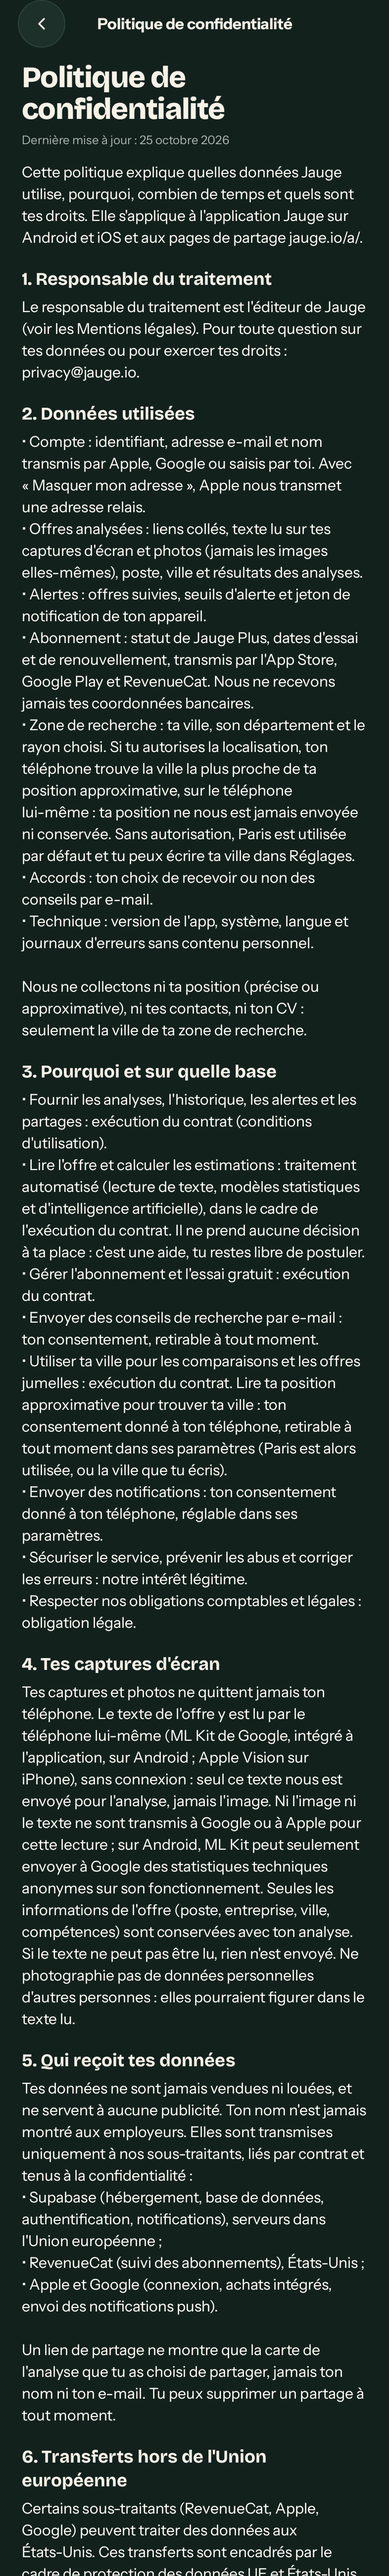
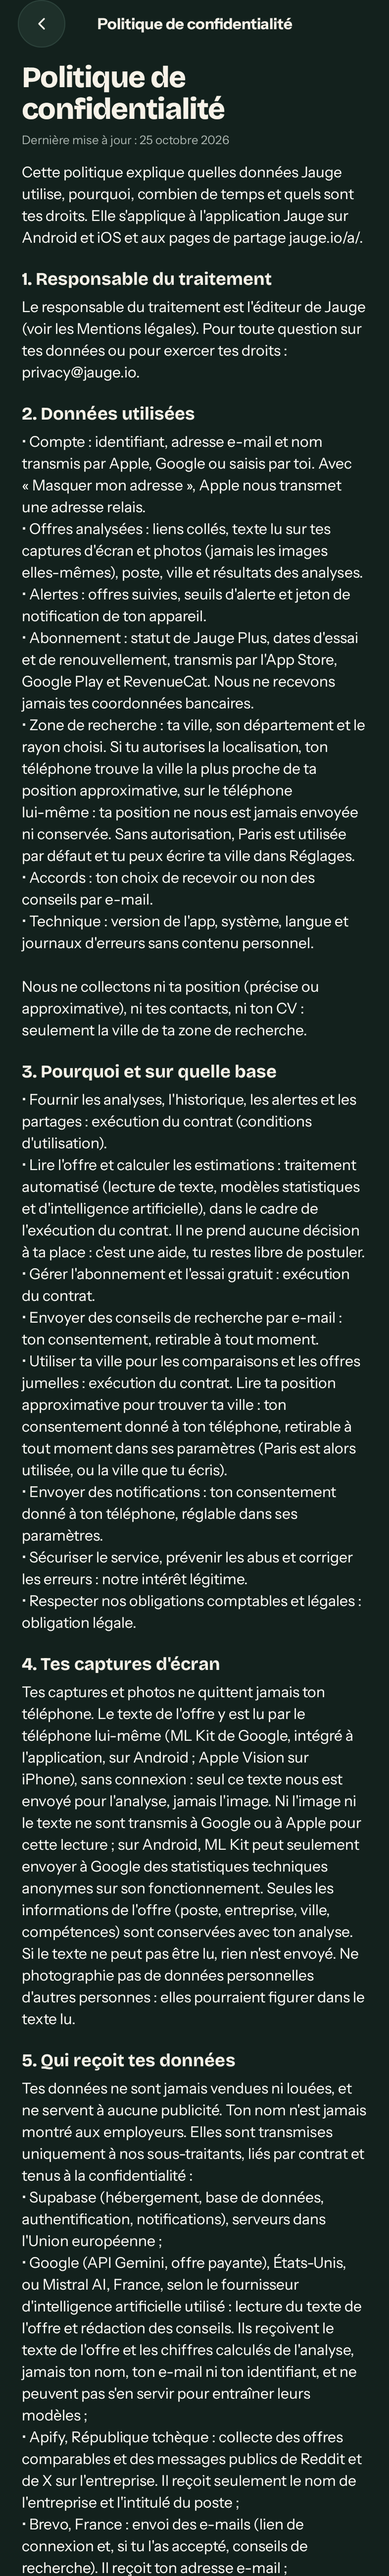
docs: name the backend processors in the privacy policy
Google Gemini or Mistral AI, Apify and Brevo are listed with their role and
the data they receive, with the public Reddit and X posts read only to refine
the advice. App texts (fr, en) and jauge.io pages regenerated.

Changed region(s): [[0.0611, 0.8723, 0.916, 1.0]]

diff --git a/docs/web/confidentialite/index.html b/docs/web/confidentialite/index.html
@@ -36,12 +36,13 @@ footer { margin-top: 48px; border-top: 1px solid var(--line); padding-top: 16px;
 <h2>4. Tes captures d&#x27;écran</h2>
 <p>Tes captures et photos ne quittent jamais ton téléphone. Le texte de l&#x27;offre y est lu par le téléphone lui-même (ML Kit de Google, intégré à l&#x27;application, sur Android ; Apple Vision sur iPhone), sans connexion : seul ce texte nous est envoyé pour l&#x27;analyse, jamais l&#x27;image. Ni l&#x27;image ni le texte ne sont transmis à Google ou à Apple pour cette lecture ; sur Android, ML Kit peut seulement envoyer à Google des statistiques techniques anonymes sur son fonctionnement. Seules les informations de l&#x27;offre (poste, entreprise, ville, compétences) sont conservées avec ton analyse. Si le texte ne peut pas être lu, rien n&#x27;est envoyé. Ne photographie pas de données personnelles d&#x27;autres personnes : elles pourraient figurer dans le texte lu.</p>
 <h2>5. Qui reçoit tes données</h2>
-<p>Tes données ne sont jamais vendues ni louées, et ne servent à aucune publicité. Ton nom n&#x27;est jamais montré aux employeurs. Elles sont transmises uniquement à nos sous-traitants, liés par contrat et tenus à la confidentialité :</p><p>• Supabase (hébergement, base de données, authentification, notifications), serveurs dans l&#x27;Union européenne ;</p><p>• RevenueCat (suivi des abonnements), États-Unis ;</p><p>• Apple et Google (connexion, achats intégrés, envoi des notifications push).</p>
+<p>Tes données ne sont jamais vendues ni louées, et ne servent à aucune publicité. Ton nom n&#x27;est jamais montré aux employeurs. Elles sont transmises uniquement à nos sous-traitants, liés par contrat et tenus à la confidentialité :</p><p>• Supabase (hébergement, base de données, authentification, notifications), serveurs dans l&#x27;Union européenne ;</p><p>• Google (API Gemini, offre payante), États-Unis, ou Mistral AI, France, selon le fournisseur d&#x27;intelligence artificielle utilisé : lecture du texte de l&#x27;offre et rédaction des conseils. Ils reçoivent le texte de l&#x27;offre et les chiffres calculés de l&#x27;analyse, jamais ton nom, ton e-mail ni ton identifiant, et ne peuvent pas s&#x27;en servir pour entraîner leurs modèles ;</p><p>• Apify, République tchèque : collecte des offres comparables et des messages publics de Reddit et de X sur l&#x27;entreprise. Il reçoit seulement le nom de l&#x27;entreprise et l&#x27;intitulé du poste ;</p><p>• Brevo, France : envoi des e-mails (lien de connexion et, si tu l&#x27;as accepté, conseils de recherche). Il reçoit ton adresse e-mail ;</p><p>• RevenueCat (suivi des abonnements), États-Unis ;</p><p>• Apple et Google (connexion, achats intégrés, envoi des notifications push).</p>
+<p>Pour affiner ses conseils, Jauge lit des messages publics de Reddit et de X qui parlent de l&#x27;entreprise. Ils ne sont pas affichés dans l&#x27;application, leurs auteurs ne sont jamais nommés, les messages ne sont pas conservés : seul un résumé de deux phrases est gardé 30 jours. Reddit et X ne reçoivent aucune donnée sur toi.</p>
 <p>Un lien de partage ne montre que la carte de l&#x27;analyse que tu as choisi de partager, jamais ton nom ni ton e-mail. Tu peux supprimer un partage à tout moment.</p>
 <h2>6. Transferts hors de l&#x27;Union européenne</h2>
-<p>Certains sous-traitants (RevenueCat, Apple, Google) peuvent traiter des données aux États-Unis. Ces transferts sont encadrés par le cadre de protection des données UE et États-Unis (Data Privacy Framework) lorsque le prestataire y adhère, ou à défaut par les clauses contractuelles types de la Commission européenne.</p>
+<p>Certains sous-traitants (Google pour l&#x27;API Gemini, RevenueCat, Apple, Google) peuvent traiter des données aux États-Unis, et Apify peut utiliser des serveurs hors de l&#x27;Union européenne. Ces transferts sont encadrés par le cadre de protection des données UE et États-Unis (Data Privacy Framework) lorsque le prestataire y adhère, ou à défaut par les clauses contractuelles types de la Commission européenne.</p>
 <h2>7. Durées de conservation</h2>
-<ul><li>Captures et photos : jamais envoyées, elles restent sur ton téléphone. Le texte lu est conservé avec ton analyse.</li><li>Compte, analyses, alertes et partages : tant que ton compte existe. Après 3 ans sans aucune connexion, ton compte et ses données sont supprimés après un e-mail de prévenance.</li><li>Sans compte : les analyses liées à ton appareil sont supprimées après 12 mois d&#x27;inactivité.</li><li>Après suppression du compte : effacement immédiat dans l&#x27;app et complet sous 30 jours, sauvegardes comprises.</li><li>Données de facturation tenues par les stores et RevenueCat : selon leurs obligations légales, jusqu&#x27;à 10 ans.</li><li>Zone de recherche : tant que ton compte existe, modifiable à tout moment dans Réglages. Ta position n&#x27;est jamais conservée.</li><li>Journaux techniques : 12 mois au plus.</li></ul>
+<ul><li>Captures et photos : jamais envoyées, elles restent sur ton téléphone. Le texte lu est conservé avec ton analyse.</li><li>Compte, analyses, alertes et partages : tant que ton compte existe. Après 3 ans sans aucune connexion, ton compte et ses données sont supprimés après un e-mail de prévenance.</li><li>Sans compte : les analyses liées à ton appareil sont supprimées après 12 mois d&#x27;inactivité.</li><li>Après suppression du compte : effacement immédiat dans l&#x27;app et complet sous 30 jours, sauvegardes comprises.</li><li>Données de facturation tenues par les stores et RevenueCat : selon leurs obligations légales, jusqu&#x27;à 10 ans.</li><li>Zone de recherche : tant que ton compte existe, modifiable à tout moment dans Réglages. Ta position n&#x27;est jamais conservée.</li><li>Résumé des messages publics sur une entreprise : 30 jours.</li><li>Journaux techniques : 12 mois au plus.</li></ul>
 <h2>8. Tes droits</h2>
 <p>Tu disposes des droits d&#x27;accès, de rectification, d&#x27;effacement, de limitation, d&#x27;opposition et de portabilité, ainsi que du droit de retirer ton consentement à tout moment et de définir des directives sur le sort de tes données après ton décès.</p>
 <p>Dans l&#x27;app : « Exporter mes analyses » te remet tes données dans un format ouvert, « Supprimer mon compte » efface ton compte et tes données. Sans l&#x27;app, tu peux aussi demander la suppression de ton compte sur jauge.io/supprimer-mon-compte. Pour tout autre droit, écris à privacy@jauge.io : nous répondons sous un mois.</p>

diff --git a/docs/audit/app-store.md b/docs/audit/app-store.md
@@ -35,7 +35,7 @@ Légende : **OK**, **Corrigé** (corrigé pendant l'audit), **À toi** (voir [a-
 | 5.1.1(v) Pas de compte obligatoire | OK | « Continuer sans compte » ; l'app est utilisable sans connexion. |
 | 5.1.1(v) Suppression du compte dans l'app | OK | Profil, Supprimer mon compte, avec rappel que l'abonnement se gère dans l'App Store. |
 | 5.1.1(v) Révocation du jeton « Se connecter avec Apple » à la suppression | À toi (serveur) | Le serveur doit appeler `https://appleid.apple.com/auth/revoke` dans `DELETE /v1/account` (écrit dans `docs/api.md`). |
-| 5.1.2(i) Données envoyées à une IA tierce : le dire et demander l'accord | À toi | Les conditions et la politique disent maintenant que l'analyse est automatique et peut utiliser l'IA. **Si les captures partent chez un fournisseur d'IA extérieur** (OpenAI, Anthropic, Google...), Apple exige de le nommer et de demander un accord explicite avant le premier envoi : dis-moi lequel et j'ajoute l'écran d'accord et le nom dans la politique. Si l'IA tourne sur vos propres serveurs, rien de plus. |
+| 5.1.2(i) Données envoyées à une IA tierce : le dire et demander l'accord | À décider | Le fournisseur (Google Gemini ou Mistral AI) est nommé dans la politique (25/10/2026). Seul le texte de l'offre part (les captures sont lues sur le téléphone), sans nom, e-mail ni identifiant. Si le texte d'une capture peut contenir des données personnelles, Apple peut demander un accord explicite avant le premier envoi : dis-moi si tu veux cet écran d'accord. |
 | 5.1.2 Pas de revente, pas de pub, pas de profilage | OK | Écrit dans la politique (section 5) et vrai dans le code : aucun SDK de pub ni de mesure. |
 
 ## 3. Connexion (4.8, « Se connecter avec Apple »)

diff --git a/docs/audit/a-faire-par-toi.md b/docs/audit/a-faire-par-toi.md
@@ -123,7 +123,8 @@ corrigés. Voici ce qui reste, dans l'ordre.
    une amende. La voie sans risque : l'API officielle de X (environ 20 fois plus chère) et un accord commercial avec
    Reddit (prix non public, demande à faire sur le site de Reddit). Dis-moi si tu gardes Apify, si tu préfères X
    seulement (`JAUGE_SOCIAL_SOURCES=x`), ou si tu veux que je branche l'API officielle de X.
-3. **Politique de confidentialité : sous-traitants à citer** (le développeur de l'app la met à jour) :
+3. **Politique de confidentialité : sous-traitants à citer** (fait le 25/10/2026 dans l'app et sur jauge.io, avec Brevo
+   pour les e-mails ; à corriger si tu choisis un autre service d'e-mail ou un seul fournisseur d'IA) :
 
    | Sous-traitant | Rôle | Données envoyées | Lieu |
    |---|---|---|---|
